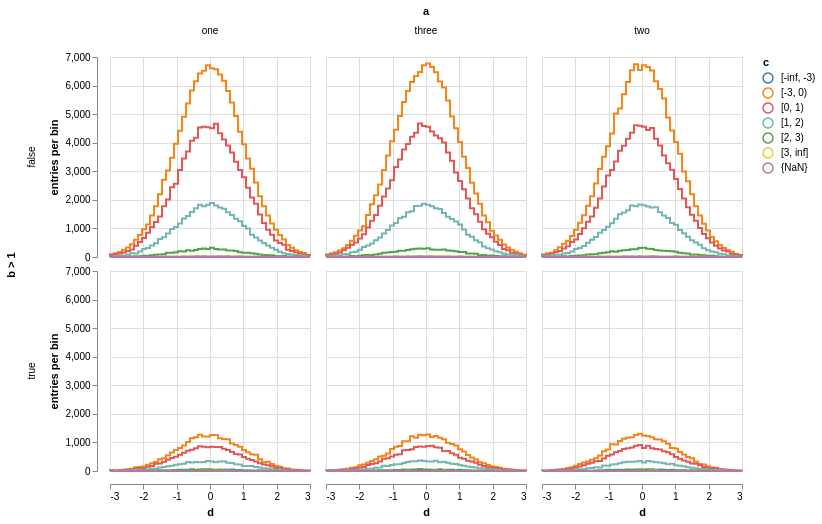
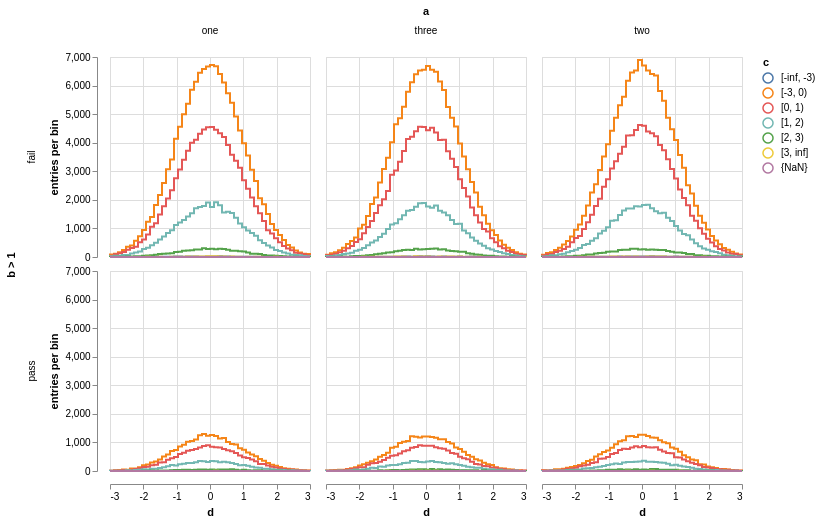
README [skip ci]

diff --git a/histbook/axis.py b/histbook/axis.py
@@ -306,8 +306,10 @@ class groupbin(GroupAxis, RebinFactor):
         assert factor > 0
 
         newaxis = groupbin(self._expr, float(self._binwidth) / float(factor), origin=self._origin, nanflow=self._nanflow, closedlow=self._closedlow)
-        newaxis._original = self._original
-        newaxis._parsed = self._parsed
+        if hasattr(self, "_original"):
+            newaxis._original = self._original
+        if hasattr(self, "_parsed"):
+            newaxis._parsed = self._parsed
 
         def recurse(j, content):
             if j == index:
@@ -464,6 +466,14 @@ class bin(FixedAxis, RebinFactor, RebinSplit):
     def totbins(self):
         return self._numbins + (1 if self._underflow else 0) + (1 if self._overflow else 0) + (1 if self._nanflow else 0)
 
+    def split(self):
+        splitaxis = split(self._expr, [(float(i) / float(self._numbins)) * (self._high - self._low) + self._low for i in range(self._numbins)] + [self._high], underflow=self._underflow, overflow=self._overflow, nanflow=self._nanflow, closedlow=self._closedlow)
+        if hasattr(self, "_original"):
+            splitaxis._original = self._original
+        if hasattr(self, "_parsed"):
+            splitaxis._parsed = self._parsed
+        return splitaxis
+
     def _goals(self, parsed=None):
         if parsed is None:
             parsed = histbook.expr.Expr.parse(self._expr)
@@ -476,10 +486,7 @@ class bin(FixedAxis, RebinFactor, RebinSplit):
         return hash((self.__class__, self._expr, self._numbins, self._low, self._high, self._underflow, self._overflow, self._nanflow, self._closedlow))
 
     def _rebinsplit(self, edges, content, index):
-        splitaxis = split(self._expr, [(float(i) / float(self._numbins)) * (self._high - self._low) + self._low for i in range(self._numbins)] + [self._high], underflow=self._underflow, overflow=self._overflow, nanflow=self._nanflow, closedlow=self._closedlow)
-        splitaxis._original = self._original
-        splitaxis._parsed = self._parsed
-        return splitaxis._rebinsplit(edges, content, index)
+        return self.split()._rebinsplit(edges, content, index)
 
     def _rebinfactor(self, factor, content, index):
         assert factor > 0
@@ -622,6 +629,17 @@ class intbin(FixedAxis, RebinFactor, RebinSplit):
     def totbins(self):
         return self.numbins + (1 if self._underflow else 0) + (1 if self._overflow else 0)
 
+    def bin(self):
+        binaxis = bin(self._expr, self._max - self._min + 1, self._min - 0.5, self._max + 0.5, underflow=self._underflow, overflow=self._overflow, nanflow=False)
+        if hasattr(self, "_original"):
+            binaxis._original = self._original
+        if hasattr(self, "_parsed"):
+            binaxis._parsed = self._parsed
+        return binaxis
+
+    def split(self):
+        return self.bin().split()
+
     def _goals(self, parsed=None):
         if parsed is None:
             parsed = histbook.expr.Expr.parse(self._expr)
@@ -634,16 +652,10 @@ class intbin(FixedAxis, RebinFactor, RebinSplit):
         return hash((self.__class__, self._expr, self._min, self._max, self._underflow, self._overflow))
 
     def _rebinsplit(self, edges, content, index):
-        binaxis = bin(self._expr, self._max - self._min + 1, self._min - 0.5, self._max + 0.5, underflow=self._underflow, overflow=self._overflow, nanflow=False)
-        binaxis._original = self._original
-        binaxis._parsed = self._parsed
-        return binaxis._rebinsplit(edges, content, index)
+        return self.bin()._rebinsplit(edges, content, index)
 
     def _rebinfactor(self, factor, content, index):
-        binaxis = bin(self._expr, self._max - self._min + 1, self._min - 0.5, self._max + 0.5, underflow=self._underflow, overflow=self._overflow, nanflow=False)
-        binaxis._original = self._original
-        binaxis._parsed = self._parsed
-        return binaxis._rebinfactor(edges, content, index)
+        return self.bin()._rebinfactor(edges, content, index)
 
     def _select(self, cmp, value, tolerance):
         if value == float("-inf") and cmp == ">=":
@@ -781,6 +793,14 @@ class split(FixedAxis, RebinFactor, RebinSplit):
     def closedlow(self):
         return self._closedlow
 
+    @property
+    def low(self):
+        return self._edges[0]
+
+    @property
+    def high(self):
+        return self._edges[-1]
+
     def relabel(self, label):
         return split(label, self._edges, underflow=self._underflow, overflow=self._overflow, nanflow=self._nanflow, closedlow=self._closedlow)
 
@@ -809,8 +829,10 @@ class split(FixedAxis, RebinFactor, RebinSplit):
                 raise ValueError("cannot rebin: edge {0} is not in the original edges {1}".format(x, self._edges))
 
         newaxis = split(self._expr, edges, underflow=self._underflow, overflow=self._overflow, nanflow=self._nanflow, closedlow=self._closedlow)
-        newaxis._original = self._original
-        newaxis._parsed = self._parsed
+        if hasattr(self, "_original"):
+            newaxis._original = self._original
+        if hasattr(self, "_parsed"):
+            newaxis._parsed = self._parsed
         
         numbins = len(newaxis._edges) - 1 + (1 if newaxis._underflow else 0) + (1 if newaxis._overflow else 0) + (1 if newaxis._nanflow else 0)
 

diff --git a/histbook/vega.py b/histbook/vega.py
@@ -218,7 +218,7 @@ class Plotable(object):
                 if base:
                     row = row + ((0.0, 0.0) if error else (0.0,))
                 else:
-                    row = row + tuple(content)
+                    row = row + tuple(float(x) for x in content)
                 data.append(dict(prefix + tuple(zip([varname + str(i) for i in range(len(row))], row))))
 
             else:
@@ -227,12 +227,15 @@ class Plotable(object):
                     domains[axis] = set()
                 domains[axis].update(axis.keys(content))
 
+                if isinstance(axis, histbook.axis.intbin):
+                    axis = axis.bin()
+
                 for i, (n, x) in enumerate(axis.items(content)):
                     if isinstance(n, histbook.axis.Interval):
                         if j == lastj:
                             if numpy.isfinite(n.low) and numpy.isfinite(n.high):
                                 low = n.low
-                                if baseline and isinstance(axis, histbook.axis.bin) and n.low == axis.low:
+                                if baseline and isinstance(axis, (histbook.axis.bin, histbook.axis.split)) and n.low == axis.low:
                                     recurse(j + 1, x, row + (n.low,), True)
                                     low += 1e-10*(axis.high - axis.low)
 
@@ -241,14 +244,14 @@ class Plotable(object):
                                 if error and baseline:
                                     shifts[low] = 0.5*(n.low + n.high)
 
-                                if baseline and isinstance(axis, histbook.axis.bin) and n.high == axis.high:
+                                if baseline and isinstance(axis, (histbook.axis.bin, histbook.axis.split)) and n.high == axis.high:
                                     recurse(j + 1, x, row + (n.high,), True)
 
                         else:
                             recurse(j + 1, x, row + (str(n),), base)
 
-                    elif isinstance(n, (numbers.Integral, numpy.integer)):
-                        recurse(j + 1, x, row + (n,), base)
+                    elif isinstance(n, (bool, numpy.bool_, numpy.bool)):
+                        recurse(j + 1, x, row + ("pass" if n else "fail",), base)
 
                     else:
                         recurse(j + 1, x, row + (str(n),), base)
@@ -264,10 +267,21 @@ class Plotable(object):
         error = self._last.error
         baseline = isinstance(self._last, (StepChannel, AreaChannel))
 
+        if isinstance(self._last.axis, (histbook.axis.bin, histbook.axis.intbin, histbook.axis.split)):
+            xtype = "quantitative"
+        else:
+            xtype = "nominal"
+
         if isinstance(self._last, StepChannel):
-            mark = {"type": "line", "interpolate": "step-before"}
+            if xtype == "nominal":
+                mark = "bar"
+            else:
+                mark = {"type": "line", "interpolate": "step-before"}
         elif isinstance(self._last, AreaChannel):
-            mark = {"type": "area", "interpolate": "step-before"}
+            if xtype == "nominal":
+                mark = "bar"
+            else:
+                mark = {"type": "area", "interpolate": "step-before"}
         elif isinstance(self._last, LineChannel):
             mark = {"type": "line"}
         elif isinstance(self._last, MarkerChannel):
@@ -290,7 +304,7 @@ class Plotable(object):
             else:
                 raise AssertionError(values)
 
-        encoding = {"x": {"field": varname + str(axis.index(self._last.axis)), "type": "quantitative", "scale": {"zero": False}, "axis": {"title": xtitle}},
+        encoding = {"x": {"field": varname + str(axis.index(self._last.axis)), "type": xtype, "scale": {"zero": False}, "axis": {"title": xtitle}},
                     "y": {"field": varname + str(len(axis)), "type": "quantitative", "axis": {"title": ytitle}}}
         for channel in self._chain[:-1]:
             if isinstance(channel, OverlayChannel):

diff --git a/README.rst b/README.rst
@@ -260,11 +260,23 @@ Notice that the three subfigures are labeled by their ``atan2(y, x)`` bins. This
 
 .. image:: docs/source/intro-8.png
 
-In the above, we created a four-dimensional histogram in which the first axis is categorical: ``one``, ``two``, ``three``, the second axis is a cut: ``b > 1``, the third axis is irregularly split into bins at edges −3, 0, 1, 2, 3, and the last is split into 50 regularly split bins.
+In the above, only the last line does any drawing. It is deliberately succinct to encourage interactive exploration. For instance, you can quickly switch from putting "``c``" side-by-side:
 
-Only the last line is involved in drawing. Vega-Lite takes a "`grammar of graphics <https://cfss.uchicago.edu/dataviz_grammar_of_graphics.html>`__" approach to visualization, in which plots are made by matching data attributes with visual facets such as overlay, stack, and placement, instead of manually drawing over drawings. histbook extends this mapping to aggregated bin data.
+.. code-block:: python
 
-In practice, you probably won't be making histograms with many dimensions, in part because of the memory use, but also because it becomes cumbersome to visualize. However, many of the "groups of histograms" particle physicists make are actually ``groupby``, ``cut``, or ``split`` dimensions in disguise. histbook puts them on the same footing as regular binning, providing flexibility to delay some decisions until you're ready to plot.
+    >>> hist.beside("c").step("b > 1").to(canvas)
+
+.. image:: docs/source/intro-9.png
+
+to putting "``b > 1``" side-by-side:
+
+.. code-block:: python
+
+    >>> hist.beside("b > 1").step("c").to(canvas)
+
+.. image:: docs/source/intro-10.png
+
+and see the same trend in different ways. Whatever axes are not mentioned are summed over: imagine a hypercube that you project onto the graphical elements of steps, lines, overlays, and trellis.
 
 Axis constructors
 -----------------
